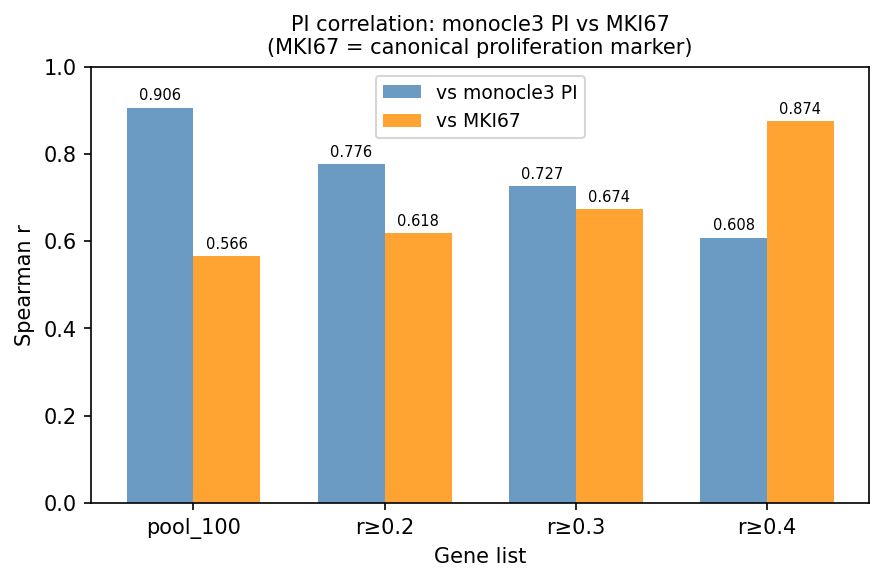
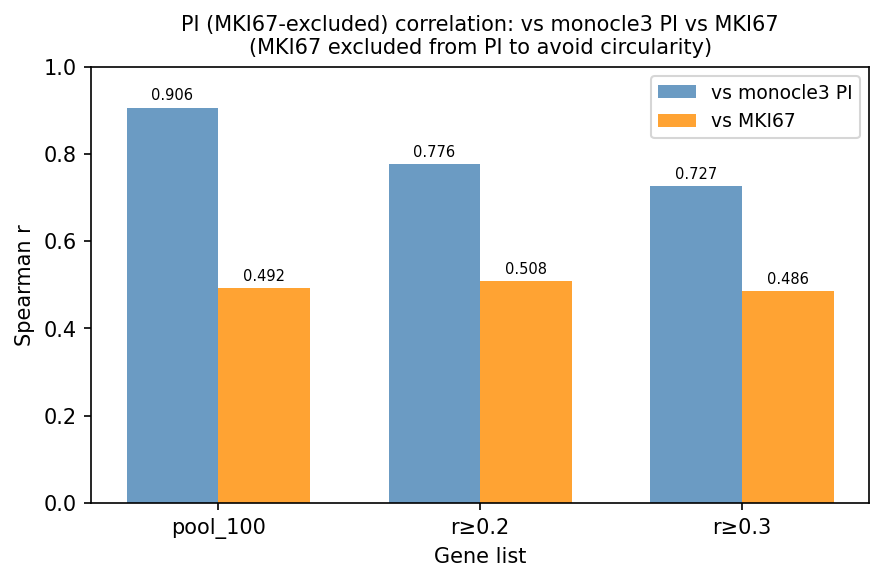
Update MKI67 validation (exclude MKI67 from PI) and README
- 02_validate_PI_sciplex.py: compute PI without MKI67 for MKI67
  correlation to avoid circularity; restrict comparison to pool_100,
  r≥0.2, r≥0.3 only (r≥0.4 dropped — only 2 genes, tautological)
- Update validation figures and summary CSV
- README: pip install instructions, p_index CLI usage, updated
  validation tables with MKI67 column and revised interpretation

diff --git a/validation/02_validate_PI_sciplex.py b/validation/02_validate_PI_sciplex.py
@@ -96,11 +96,15 @@ def compute_pi_for_genelist(
     libsize: np.ndarray,
     present_genes: list[str],
     gene_dict: dict,
+    exclude: Optional[list] = None,
 ) -> np.ndarray:
-    """Compute PI given a counts matrix (pre-loaded for the 100-gene pool)."""
+    """Compute PI given a counts matrix (pre-loaded for the 100-gene pool).
+    exclude: list of gene names to omit from the calculation (e.g. [MKI67_GENE]).
+    """
+    excl = set(exclude) if exclude else set()
     gene_to_col = {g: i for i, g in enumerate(present_genes)}
-    s_idx   = [gene_to_col[g] for g in gene_dict["s.genes"]   if g in gene_to_col]
-    g2m_idx = [gene_to_col[g] for g in gene_dict["g2m.genes"] if g in gene_to_col]
+    s_idx   = [gene_to_col[g] for g in gene_dict["s.genes"]   if g in gene_to_col and g not in excl]
+    g2m_idx = [gene_to_col[g] for g in gene_dict["g2m.genes"] if g in gene_to_col and g not in excl]
     return compute_pi(counts, libsize, s_idx, g2m_idx)
 
 
@@ -154,7 +158,7 @@ def main():
     if pool_json.exists():
         configs.append(("pool_100", pool_json))
 
-    for thr_tag, label in [("r02", "r≥0.2"), ("r03", "r≥0.3"), ("r04", "r≥0.4")]:
+    for thr_tag, label in [("r02", "r≥0.2"), ("r03", "r≥0.3")]:
         p = gene_list_dir / f"cc_genes_{thr_tag}.json"
         if p.exists():
             configs.append((label, p))
@@ -226,10 +230,17 @@ def main():
         col_key = f"pi_{label.replace('≥','').replace('.','').replace(' ','')}"
         per_cell_scores[col_key] = pi_vals
 
+        # MKI67 correlation: compute PI without MKI67 to avoid circularity
+        # (MKI67 is in the gene pool, so including it inflates r artificially)
         mki67_r_sp = float("nan")
         if mki67_expr is not None:
-            mki67_stats = correlation_stats(pi_vals, mki67_expr)
+            pi_no_mki67 = compute_pi_for_genelist(
+                counts, libsize, present_genes, gd, exclude=[MKI67_GENE]
+            )
+            mki67_stats = correlation_stats(pi_no_mki67, mki67_expr)
             mki67_r_sp  = mki67_stats["spearman_r"]
+            col_key_nomki = f"pi_no_mki67_{label.replace('≥','').replace('.','').replace(' ','')}"
+            per_cell_scores[col_key_nomki] = pi_no_mki67
 
         line = (f"  {label:<10} {n_tot:>7}  {n_s:>5}  {n_g2m:>6}  "
                 f"{stats_all['spearman_r']:>10.4f}  {stats_all['pearson_r']:>9.4f}")
@@ -349,7 +360,7 @@ def main():
                 fig2, axes2 = plt.subplots(1, n_configs, figsize=(4 * n_configs, 4), squeeze=False)
 
                 for ax, (label, _), rec in zip(axes2[0], configs, summary_records):
-                    col_key = f"pi_{label.replace('≥','').replace('.','').replace(' ','')}"
+                    col_key = f"pi_no_mki67_{label.replace('≥','').replace('.','').replace(' ','')}"
                     pi_vals = per_cell_scores[col_key]
 
                     if celltypes is not None:
@@ -374,7 +385,7 @@ def main():
                     ax.set_xlabel("MKI67 expression (log-norm)", fontsize=8)
                     ax.set_ylabel("PI", fontsize=8)
 
-                fig2.suptitle(f"SciPlex3 MKI67 validation — PI vs MKI67 (canonical marker)\n"
+                fig2.suptitle(f"SciPlex3 MKI67 validation — PI (MKI67-excluded) vs MKI67\n"
                               f"(n={len(ref_pi):,} cells, plotted: {n_plot:,})",
                               fontsize=10, y=1.02)
                 fig2.tight_layout()
@@ -396,8 +407,8 @@ def main():
 
                 ax3.set_xlabel("Gene list", fontsize=10)
                 ax3.set_ylabel("Spearman r", fontsize=10)
-                ax3.set_title("PI correlation: monocle3 PI vs MKI67\n"
-                              "(MKI67 = canonical proliferation marker)", fontsize=10)
+                ax3.set_title("PI (MKI67-excluded) correlation: vs monocle3 PI vs MKI67\n"
+                              "(MKI67 excluded from PI to avoid circularity)", fontsize=10)
                 ax3.set_xticks(x)
                 ax3.set_xticklabels(labels_list)
                 ax3.legend(fontsize=9)

diff --git a/README.md b/README.md
@@ -1,7 +1,48 @@
 # Proliferation Index (PI) — adaptive scRNA-seq scoring
 
 Compute a data-adaptive **Proliferation Index** for any scRNA-seq h5ad file.
-Implements the SciPlex / monocle3 PI formula with automatic gene selection via Leave-One-Out (LOO) Spearman correlation.
+Implements the SciPlex / monocle3 PI formula with optional gene selection via Leave-One-Out (LOO) Spearman correlation.
+
+---
+
+## Installation
+
+```bash
+pip install git+https://github.com/Dododongr/proliferation-index.git
+```
+
+All dependencies (`anndata`, `numpy`, `scipy`, `pandas`, `matplotlib`, `psutil`) are installed automatically.
+
+---
+
+## Usage
+
+### Interactive (recommended for first run)
+```bash
+p_index --input data.h5ad
+```
+Runs LOO, shows gene counts per threshold, asks you to pick.
+
+### Non-interactive (pipeline)
+```bash
+p_index --input data.h5ad --r-threshold 0.2
+```
+
+### Custom output path
+```bash
+p_index --input data.h5ad --output data_with_pi.h5ad --r-threshold 0.2
+```
+
+### All options
+| Argument | Default | Description |
+|---|---|---|
+| `--input` | *(required)* | Input h5ad (gene symbol var_names) |
+| `--output` | `<input>_pi.h5ad` | Output h5ad path |
+| `--r-threshold` | interactive | LOO r threshold: 0.2 / 0.3 / 0.4 / 0.5 |
+| `--preset` | `auto` | `auto` · `seurat` · `scanpy` |
+| `--counts-layer` | auto-detected | Override raw counts layer name |
+| `--libsize-key` | auto-detected | Override total UMI obs column name |
+| `--gene-pool` | built-in | Path to custom gene pool JSON |
 
 ---
 
@@ -31,66 +72,29 @@ Matches the monocle3-based `proliferation_index` from [Srivatsan et al. 2020 (Sc
 
 ## Validation
 
-Tested against monocle3 `proliferation_index` on **SciPlex3** (581,777 cells × 58,347 genes):
+Tested on **SciPlex3** (581,777 cells × 58,347 genes, 3 cell lines).
 
-| Gene list       | N genes | Spearman r | A549   | K562   | MCF7   |
-|-----------------|---------|-----------|--------|--------|--------|
-| Pool (100)      | 100     | **0.906** | 0.994  | 0.994  | 0.996  |
-| LOO r ≥ 0.2     | 30      | 0.776     | 0.905  | 0.887  | 0.894  |
-| LOO r ≥ 0.3     | 9       | 0.727     | 0.811  | 0.776  | 0.839  |
-| LOO r ≥ 0.4     | 2       | 0.608     | 0.664  | 0.552  | 0.695  |
+### vs monocle3 `proliferation_index` (reference)
 
-> **Recommended threshold: r ≥ 0.2** — best balance of gene coverage and correlation.
+| Gene list   | N genes | Spearman r | A549  | K562  | MCF7  |
+|-------------|---------|------------|-------|-------|-------|
+| Pool (100)  | 100     | **0.906**  | 0.994 | 0.994 | 0.996 |
+| LOO r ≥ 0.2 | 30      | 0.776      | 0.905 | 0.887 | 0.894 |
+| LOO r ≥ 0.3 | 9       | 0.727      | 0.811 | 0.776 | 0.839 |
 
----
+### vs MKI67 expression (canonical proliferation marker, MKI67 excluded from PI)
 
-## Installation
+| Gene list   | N genes | r vs MKI67 |
+|-------------|---------|------------|
+| Pool (100)  | 99      | 0.492      |
+| LOO r ≥ 0.2 | 29      | **0.508**  |
+| LOO r ≥ 0.3 | 8       | 0.486      |
 
-```bash
-# Clone
-git clone <repo-url>
-cd proliferation_index
+### Interpretation
 
-# Dependencies (conda)
-conda activate scvi   # anndata, scanpy, scipy, numpy, pandas
+LOO filtering reduces correlation with monocle3 PI as fewer genes are used. However, correlation with the canonical proliferation marker MKI67 remains stable across thresholds, indicating that LOO filtering does not remove core proliferative signal — it removes genes with weaker independent contributions.
 
-# Optional — for RAM tracking
-pip install psutil
-```
-
----
-
-## Usage
-
-### Interactive (recommended for first run)
-```bash
-python compute_pi.py --input data.h5ad
-```
-Runs LOO, shows gene counts per threshold, asks you to pick.
-
-### Non-interactive (pipeline)
-```bash
-python compute_pi.py --input data.h5ad --r-threshold 0.2
-```
-
-### Custom output path
-```bash
-python compute_pi.py \
-  --input  data.h5ad \
-  --output data_with_pi.h5ad \
-  --r-threshold 0.2
-```
-
-### All options
-| Argument | Default | Description |
-|---|---|---|
-| `--input` | *(required)* | Input h5ad (gene symbol var_names) |
-| `--output` | `<input>_pi.h5ad` | Output h5ad path |
-| `--r-threshold` | interactive | LOO r threshold: 0.2 / 0.3 / 0.4 / 0.5 |
-| `--preset` | `auto` | `auto` · `seurat` · `scanpy` |
-| `--counts-layer` | auto-detected | Override raw counts layer name |
-| `--libsize-key` | auto-detected | Override total UMI obs column name |
-| `--gene-pool` | built-in | Path to custom gene pool JSON |
+**Recommended threshold: r ≥ 0.2** — best balance between gene coverage and signal purity. Researchers who prefer maximum concordance with monocle3 PI can use the full pool (no threshold); those who prefer data-adaptive, parsimonious gene selection can apply LOO filtering.
 
 ---
 
@@ -137,7 +141,8 @@ adata.uns["proliferation_index_params"] = {
 | File | N genes | Description |
 |---|---|---|
 | `cc_genes_pool.json` | 100 | Full candidate pool (default) |
-| `atomic_cc_genes.json` | 97 | Pre-LOO reference list |
+| `cc_genes_r02.json` | 30 | LOO r ≥ 0.2 filtered (SciPlex3) |
+| `cc_genes_r03.json` | 9 | LOO r ≥ 0.3 filtered (SciPlex3) |
 | `regev_lab.json` | — | Tirosh et al. 2015 |
 | `seurat_default.json` | — | Seurat built-in |
 